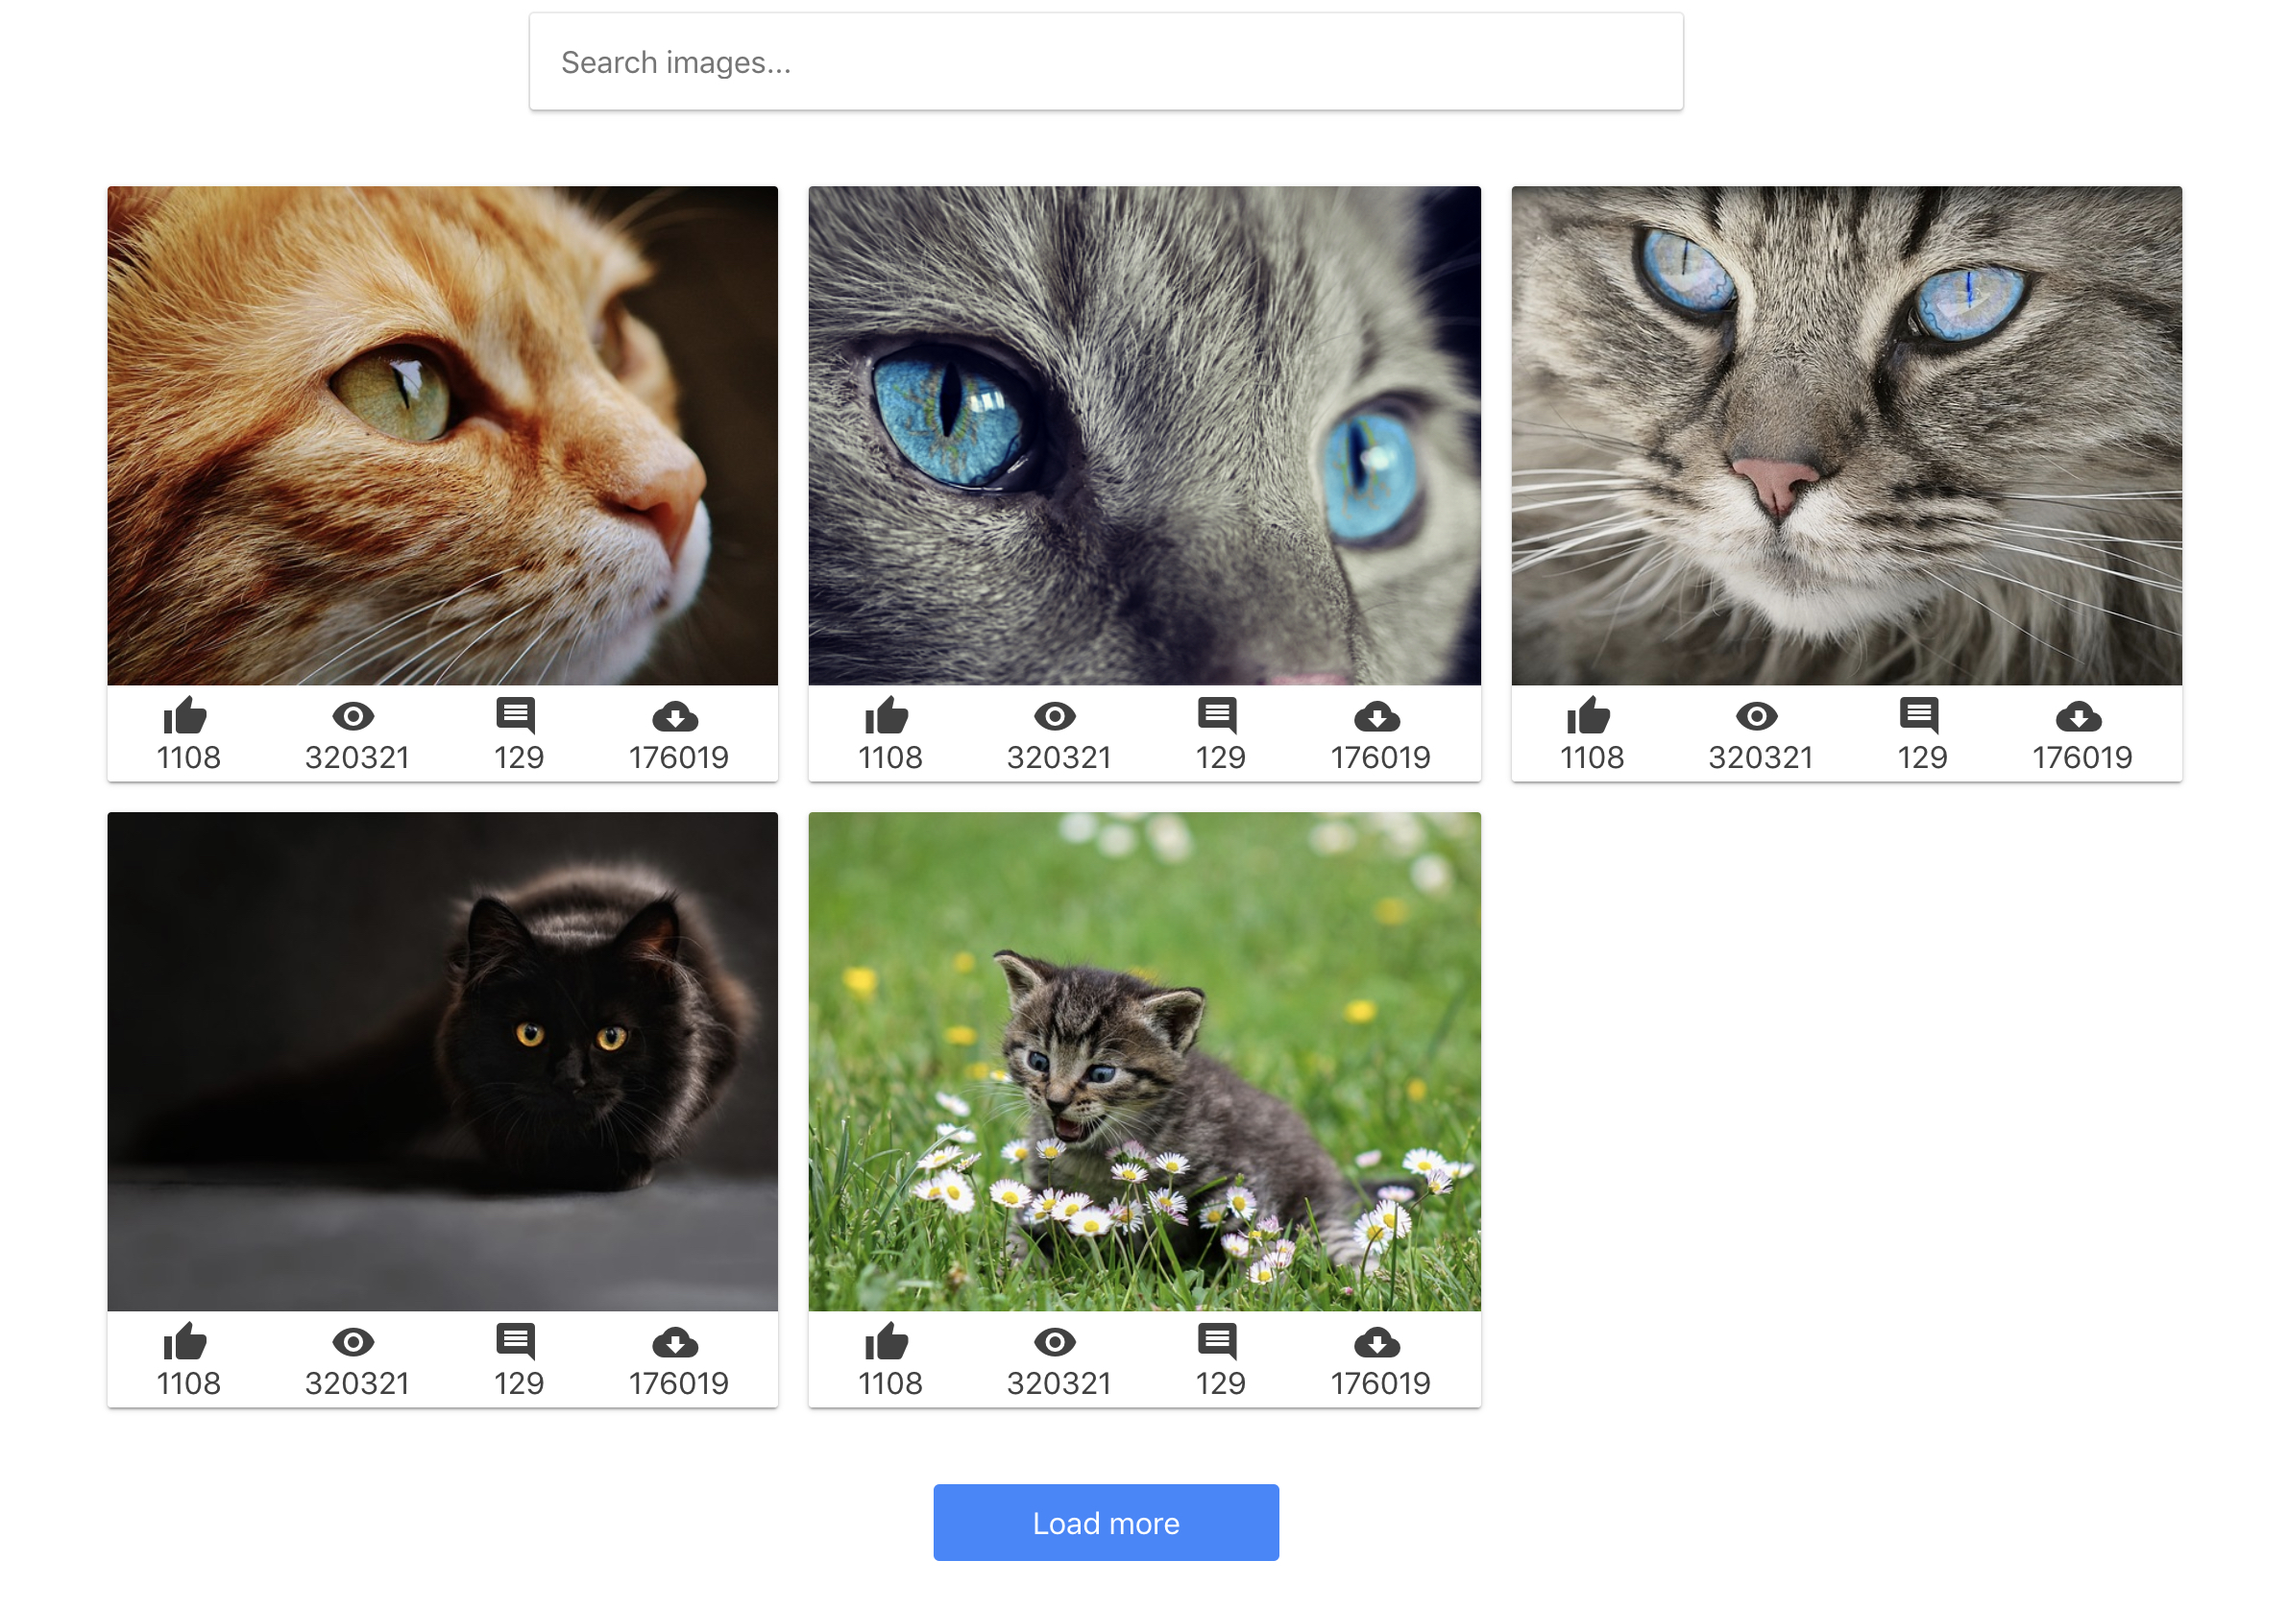
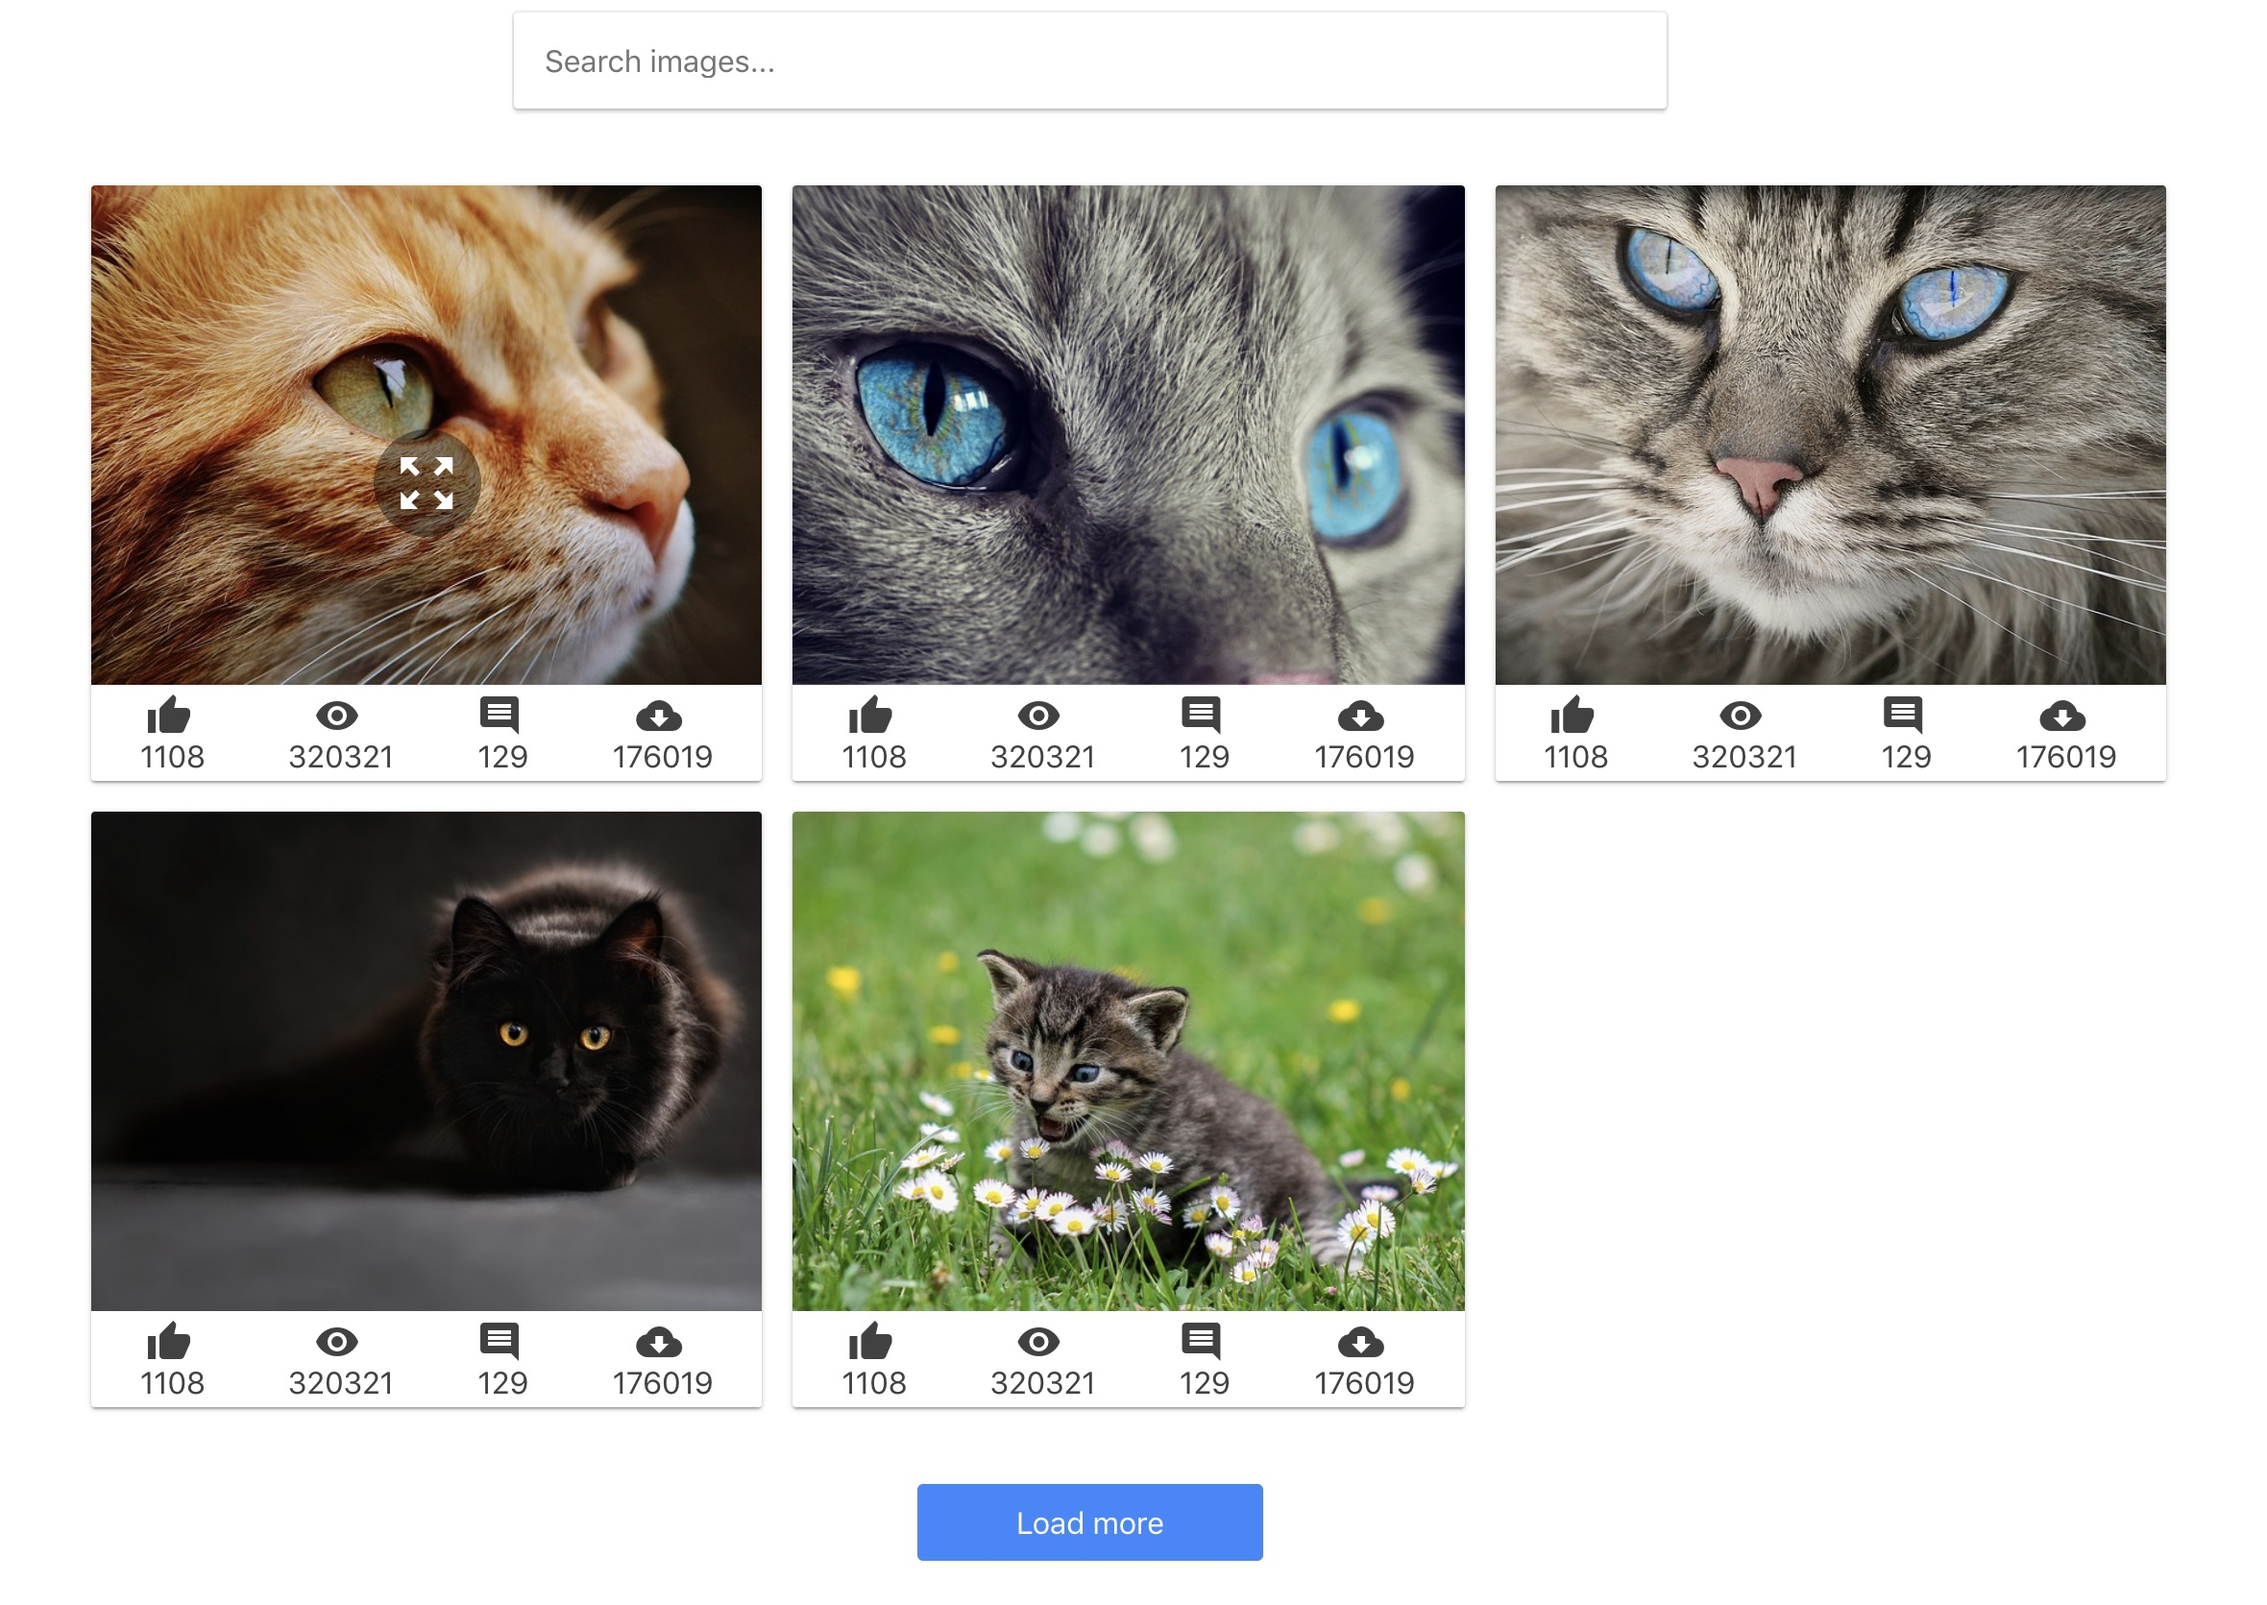
Adds task description and preview

diff --git a/homework-03/image-finder/styles.css b/homework-03/image-finder/styles.css
@@ -1,0 +1,151 @@
+/* Базовые стили */
+* {
+  box-sizing: border-box;
+}
+
+body {
+  font-family: -apple-system, BlinkMacSystemFont, 'Segoe UI', Roboto,
+    Oxygen-Sans, Ubuntu, Cantarell, 'Helvetica Neue', sans-serif;
+  color: #212121;
+  background-color: #fff;
+}
+
+img {
+  display: block;
+  max-width: 100%;
+  height: auto;
+}
+
+/* Стили компонента App */
+.app {
+  display: grid;
+  grid-template-columns: 1fr;
+  grid-gap: 24px;
+}
+
+/* Стили компонента SearchForm */
+.search-form {
+  width: 600px;
+  margin-left: auto;
+  margin-right: auto;
+}
+
+.search-form input {
+  box-shadow: 0 2px 2px 0 rgba(0, 0, 0, 0.16), 0 0 0 1px rgba(0, 0, 0, 0.08);
+  border: honeydew;
+  display: block;
+  width: 100%;
+  padding: 16px;
+  font: inherit;
+  font-size: 16px;
+  border-radius: 2px;
+  outline: none;
+}
+
+/* Стили компонента Gallery */
+.gallery {
+  width: 1120px;
+  display: grid;
+  grid-template-columns: 1fr 1fr 1fr;
+  grid-gap: 16px;
+  margin-left: auto;
+  margin-right: auto;
+}
+
+/* Стили компонента GalleryItem */
+.gallery-item {
+  position: relative;
+  display: inline-block;
+  overflow: hidden;
+  border-radius: 2px;
+  box-shadow: 0px 1px 3px 0px rgba(0, 0, 0, 0.2),
+    0px 1px 1px 0px rgba(0, 0, 0, 0.14), 0px 2px 1px -1px rgba(0, 0, 0, 0.12);
+}
+
+.gallery-item img {
+  height: 260px;
+  object-fit: cover;
+}
+
+.stats {
+  width: 100%;
+  display: flex;
+  align-items: center;
+  background-color: #fff;
+  user-select: none;
+  color: #414141;
+  padding: 4px;
+}
+
+.stats-item {
+  margin: 0;
+  display: flex;
+  flex-direction: column;
+  align-items: center;
+  justify-content: center;
+  flex-grow: 1;
+}
+
+.stats-item i {
+  margin-right: 4px;
+}
+
+.fullscreen-button {
+  position: absolute;
+  top: 50%;
+  left: 50%;
+  transform: translate(-50%, -50%);
+  display: flex;
+  align-items: center;
+  justify-content: center;
+  border: none;
+  font: inherit;
+  background-color: rgba(0, 0, 0, 0.4);
+  border-radius: 50%;
+  width: 56px;
+  height: 56px;
+  color: #fff;
+  cursor: pointer;
+  transition: background-color 200ms linear, opacity 200ms linear;
+  opacity: 0;
+}
+
+.fullscreen-button:hover,
+.fullscreen-button:focus {
+  background-color: rgba(0, 0, 0, 0.7);
+}
+
+.fullscreen-button i {
+  font-size: 36px;
+}
+
+.gallery-item:hover .fullscreen-button,
+.gallery-item:focus .fullscreen-button {
+  opacity: 1;
+}
+
+/* Стили кнопки Load more */
+.button {
+  padding: 8px 16px;
+  border-radius: 3px;
+  background-color: #3884ff;
+  transition: all 200ms ease;
+  text-align: center;
+  display: inline-block;
+  color: #fff;
+  border: 0;
+  text-decoration: none;
+  cursor: pointer;
+  font-family: inherit;
+  font-size: 16px;
+  line-height: 24px;
+  font-style: normal;
+  min-width: 180px;
+  margin-left: auto;
+  margin-right: auto;
+}
+
+.button:hover,
+.button:focus {
+  background-color: #1f65d6;
+}

diff --git a/homework-03/image-finder/README.md b/homework-03/image-finder/README.md
@@ -1,1 +1,156 @@
+# Поиск изображений
+
+Напиши приложение поиска изображений по ключевому слову. Создай компоненты
+`SearchForm`, `Gallery`, `GalleryItem` и `Modal`. Стили компонентов можно взять
+в файле [styles.css](./styles.css).
+
 ![preview](./mockup/preview.jpg)
+
+## Инструкции Pixabay API
+
+Для HTTP-запросов используй публичный
+[RESTful API Pixabay](https://pixabay.com/api/docs/). Зарегистрируйся и получи
+ключ.
+
+URL-строка HTTP-запроса:
+
+```bash
+https://pixabay.com/api/?image_type=photo&orientation=horizontal&q=что_искать&page=номер_страницы&per_page=12&key=твой_ключ
+```
+
+Pixabay API поддерживает пагинацию, в ответе приходит по 12 объектов (по
+умолчанию 20), установлено в параметре `per_page`. По умолчанию параметр `page`
+равен `1`.
+
+> Не забудь о том, что при поиске по новому ключевому слову необходимо
+> сбрасывать значение страницы в `1`.
+
+При нажатии на кнопку `Load more` должна догружаться следующая порция
+изображений и рендериться вместе с предыдущими. Страница должна автоматически
+плавно проскроливаться после рендера изображений. Можно использовать
+[window.scrollTo()](https://developer.mozilla.org/en-US/docs/Web/API/Window/scrollTo).
+
+Каждое изобаржение описывается объектом.
+
+```json
+{
+  "comments": 78,
+  "downloads": 63296,
+  "favorites": 558,
+  "id": 1508613,
+  "imageHeight": 2135,
+  "imageSize": 1630104,
+  "imageWidth": 2894,
+  "largeImageURL": "https://pixabay.com/get/57e5d54b4c53af14f6da8c7dda793376173cd8e7524c704c702873dc9f44c551_1280.jpg",
+  "likes": 575,
+  "pageURL": "https://pixabay.com/photos/cat-animal-cat-portrait-cat-s-eyes-1508613/",
+  "previewHeight": 110,
+  "previewURL": "https://cdn.pixabay.com/photo/2016/07/10/21/47/cat-1508613_150.jpg",
+  "previewWidth": 150,
+  "tags": "cat, animal, cat portrait",
+  "type": "photo",
+  "user": "cocoparisienne",
+  "userImageURL": "https://cdn.pixabay.com/user/2018/11/26/11-06-29-714_250x250.jpg",
+  "user_id": 127419,
+  "views": 127450,
+  "webformatHeight": 472,
+  "webformatURL": "https://pixabay.com/get/57e5d54b4c53af14f6da8c7dda793376173cd8e7524c704c702873dc9f44c551_640.jpg",
+  "webformatWidth": 640
+}
+```
+
+Нам интересны следующие свойства:
+
+- `id` - уникальный идентификатор
+- `webformatURL` - ссылка на маленькое изображение для списка карточек
+- `largeImageURL` - ссылка на большое изображение для модального окна
+- `likes` - количество лайков
+- `views` - количество просмотров
+- `comments` - количество комментариев
+- `downloads` - количество загрузок
+
+## Описание компонента SearchForm
+
+Компонент принимает один проп `onSubmit` - функцию для передачи значения инпута
+при сабмите. Создает DOM-элемент следующей структуры.
+
+```html
+<form class="search-form">
+  <input type="text" autocomplete="off" placeholder="Search images..." />
+</form>
+```
+
+## Описание компонента Gallery
+
+Список карточек изображений. Создает DOM-элемент следующей структуры.
+
+```html
+<ul class="gallery">
+  <!-- Карточки изображений -->
+</ul>
+```
+
+## Описание компонента GalleryItem
+
+Компонент карточки с изображением и статистикой. Создает DOM-элемент следующей
+структуры.
+
+```html
+<li class="gallery-item">
+  <img src="" alt="" />
+
+  <div class="stats">
+    <p class="stats-item">
+      <i class="material-icons">thumb_up</i>
+      1108
+    </p>
+    <p class="stats-item">
+      <i class="material-icons">visibility</i>
+      320321
+    </p>
+    <p class="stats-item">
+      <i class="material-icons">comment</i>
+      129
+    </p>
+    <p class="stats-item">
+      <i class="material-icons">cloud_download</i>
+      176019
+    </p>
+  </div>
+
+  <!-- Кнопка для открытия модалки с большим изображением, появляется при наведении -->
+  <button type="button" class="fullscreen-button">
+    <i class="material-icons">zoom_out_map</i>
+  </button>
+</li>
+```
+
+Для иконок используются
+[Material icons](https://google.github.io/material-design-icons/). Для их
+корректной работы достаточно в HTML-файле добавить ссылку на веб-шрифт.
+
+```html
+<link
+  href="https://fonts.googleapis.com/icon?family=Material+Icons"
+  rel="stylesheet"
+/>
+```
+
+## Описание компонента Modal
+
+При клике на кнопку `fullscreen-button` в карточке галлереи, должно открываться
+модальное окно с темным оверлеем и отображаться большая версия изображения.
+Модальное окно должно закрываться по `ESC`, или клику по оверлею.
+
+Внешний вид похож на функционал этого
+[VanillaJS-плагина](https://basiclightbox.electerious.com/), только вместо
+белого модального окна рендерится изображение (в примере нажми `Run`). Анимации
+делать не нужно!
+
+```html
+<div class="overlay">
+  <div class="modal">
+    <img src="" alt="" />
+  </div>
+</div>
+```
